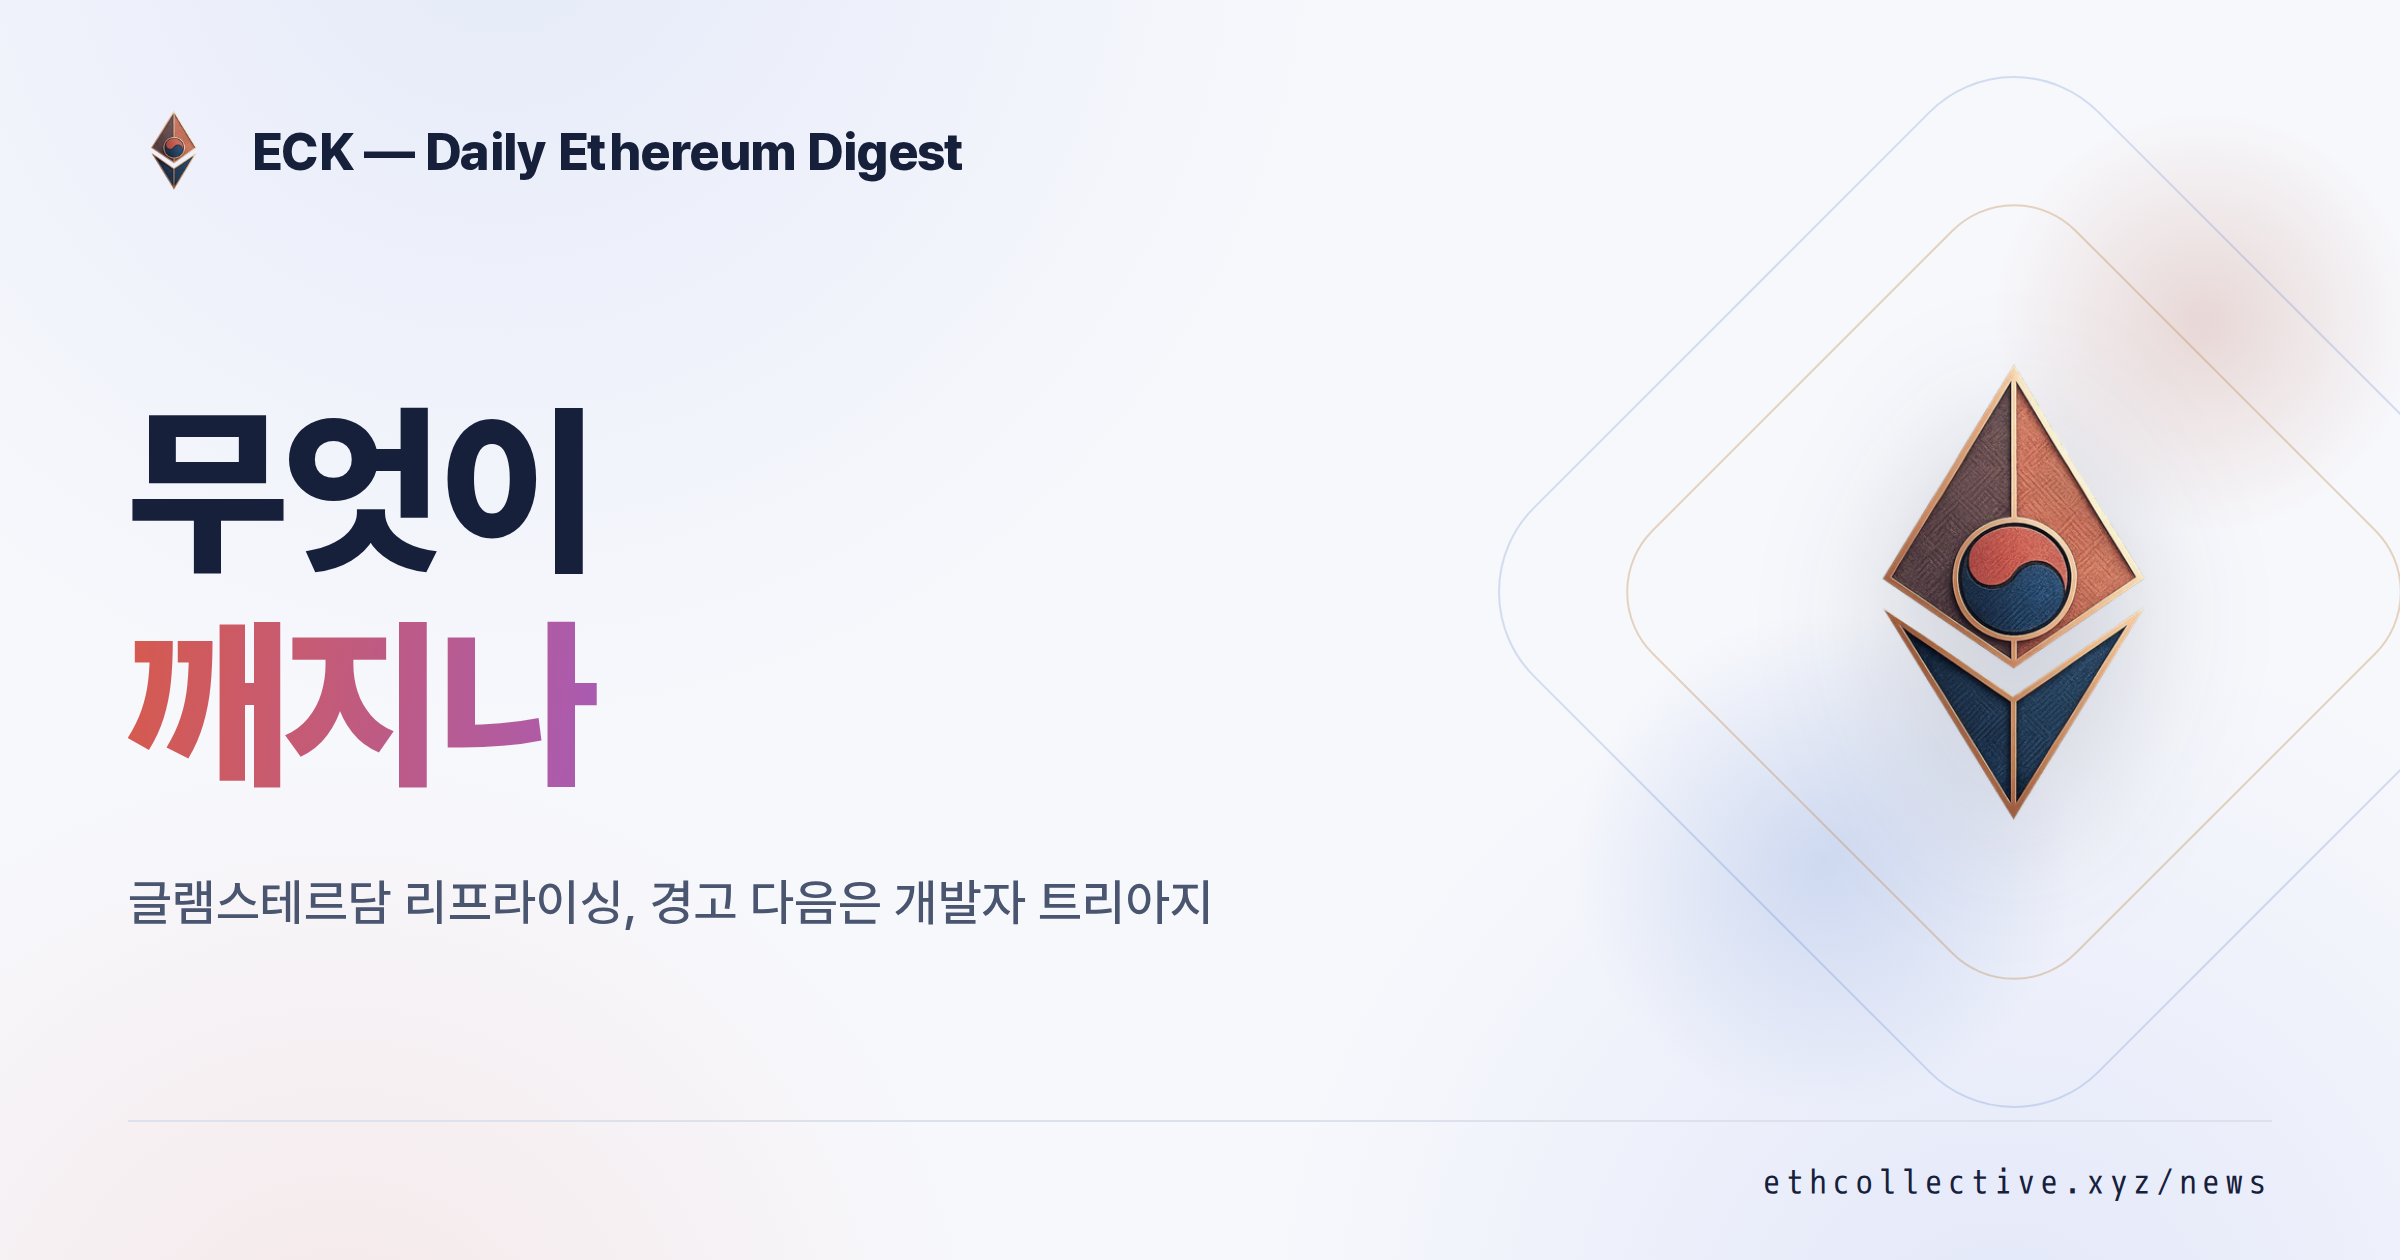
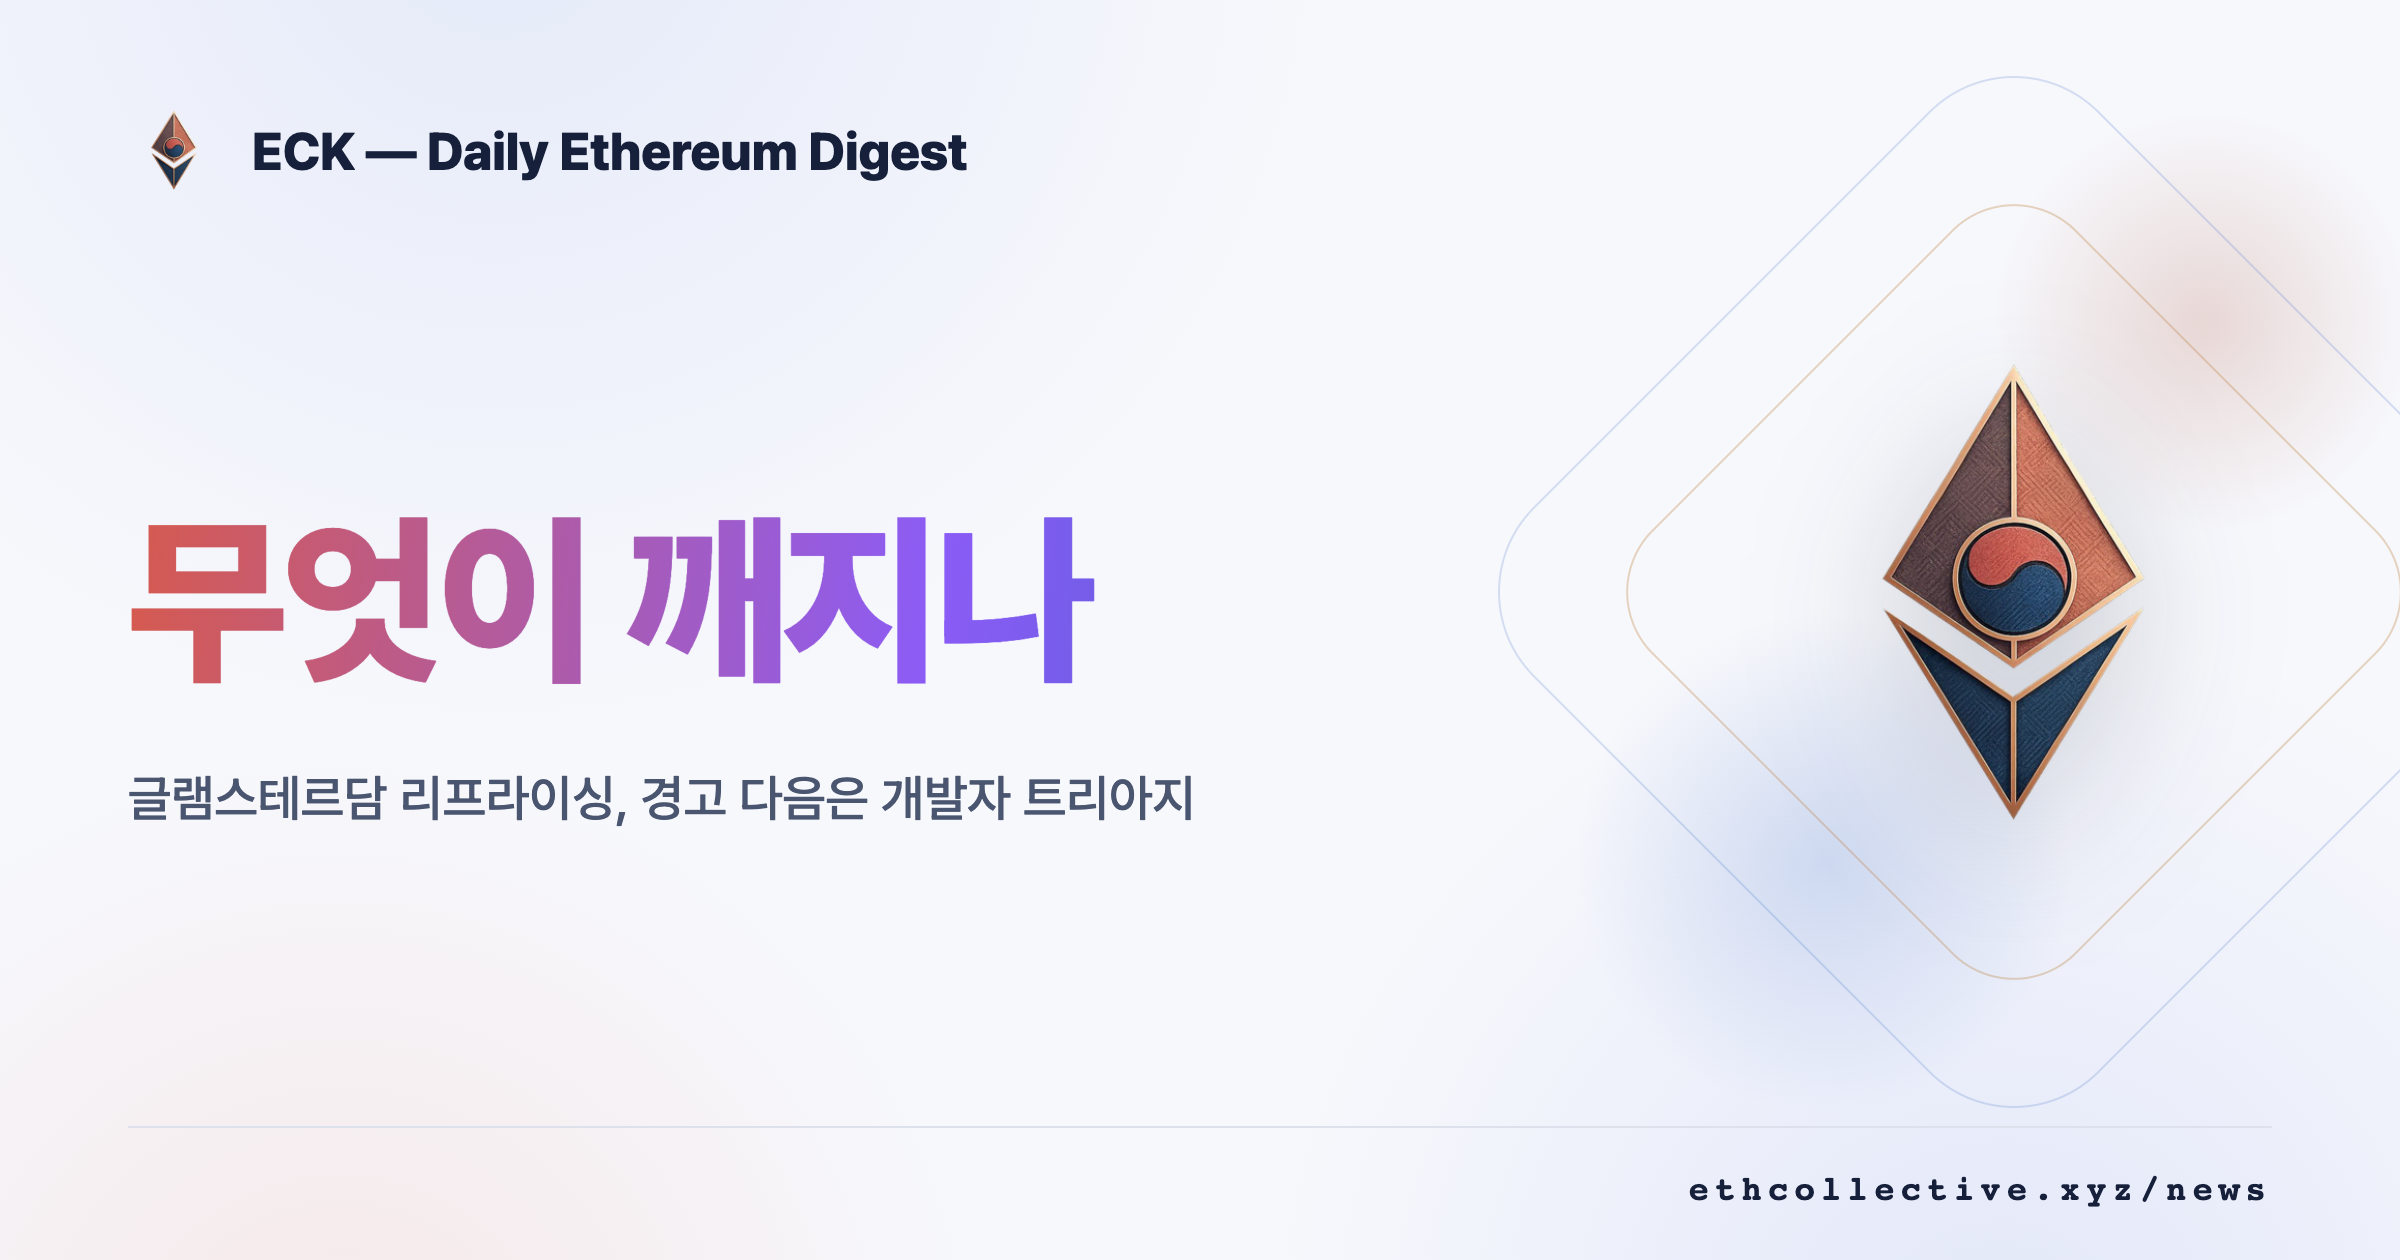
style: 커버 타이틀 2줄 분할 제거 — 한 줄 그라디언트

diff --git a/scripts/render-digest-cover.ts b/scripts/render-digest-cover.ts
@@ -50,26 +50,8 @@ function esc(s: string): string {
 }
 
 function coverHtml(digest: Digest, logoDataUri: string, fontDataUri: string): string {
-  // 짧은 헤드라인을 레퍼런스처럼 2줄로 — 1줄째 네이비, 2줄째 그라디언트.
-  // 쉼표가 있으면 쉼표에서 분할(쉼표 제거), 없으면 중앙에 가까운 공백에서 분할.
+  // 헤드라인은 한 줄 그대로 — 폭에 맞춰 fit 루프가 크기를 조정한다.
   const headline = (digest.shortTitle ?? digest.title).trim();
-  let line1 = headline;
-  let line2 = '';
-  const commaIdx = headline.indexOf(',');
-  if (commaIdx > 0) {
-    line1 = headline.slice(0, commaIdx).trim();
-    line2 = headline.slice(commaIdx + 1).trim();
-  } else {
-    const mid = Math.floor(headline.length / 2);
-    let best = -1;
-    for (let i = 0; i < headline.length; i++) {
-      if (headline[i] === ' ' && (best === -1 || Math.abs(i - mid) < Math.abs(best - mid))) best = i;
-    }
-    if (best > 0) {
-      line1 = headline.slice(0, best).trim();
-      line2 = headline.slice(best + 1).trim();
-    }
-  }
 
   return `<!doctype html><html><head><meta charset="utf-8"><style>
     @font-face {
@@ -134,8 +116,7 @@ function coverHtml(digest: Digest, logoDataUri: string, fontDataUri: string): st
       </div>
       <div class="body">
         <div class="title">
-          <div class="tline">${esc(line1)}</div>
-          ${line2 ? `<div class="tline accent">${esc(line2)}</div>` : ''}
+          <div class="tline accent">${esc(headline)}</div>
         </div>
         ${digest.subTitle ? `<div class="sub">${esc(digest.subTitle)}</div>` : ''}
       </div>
